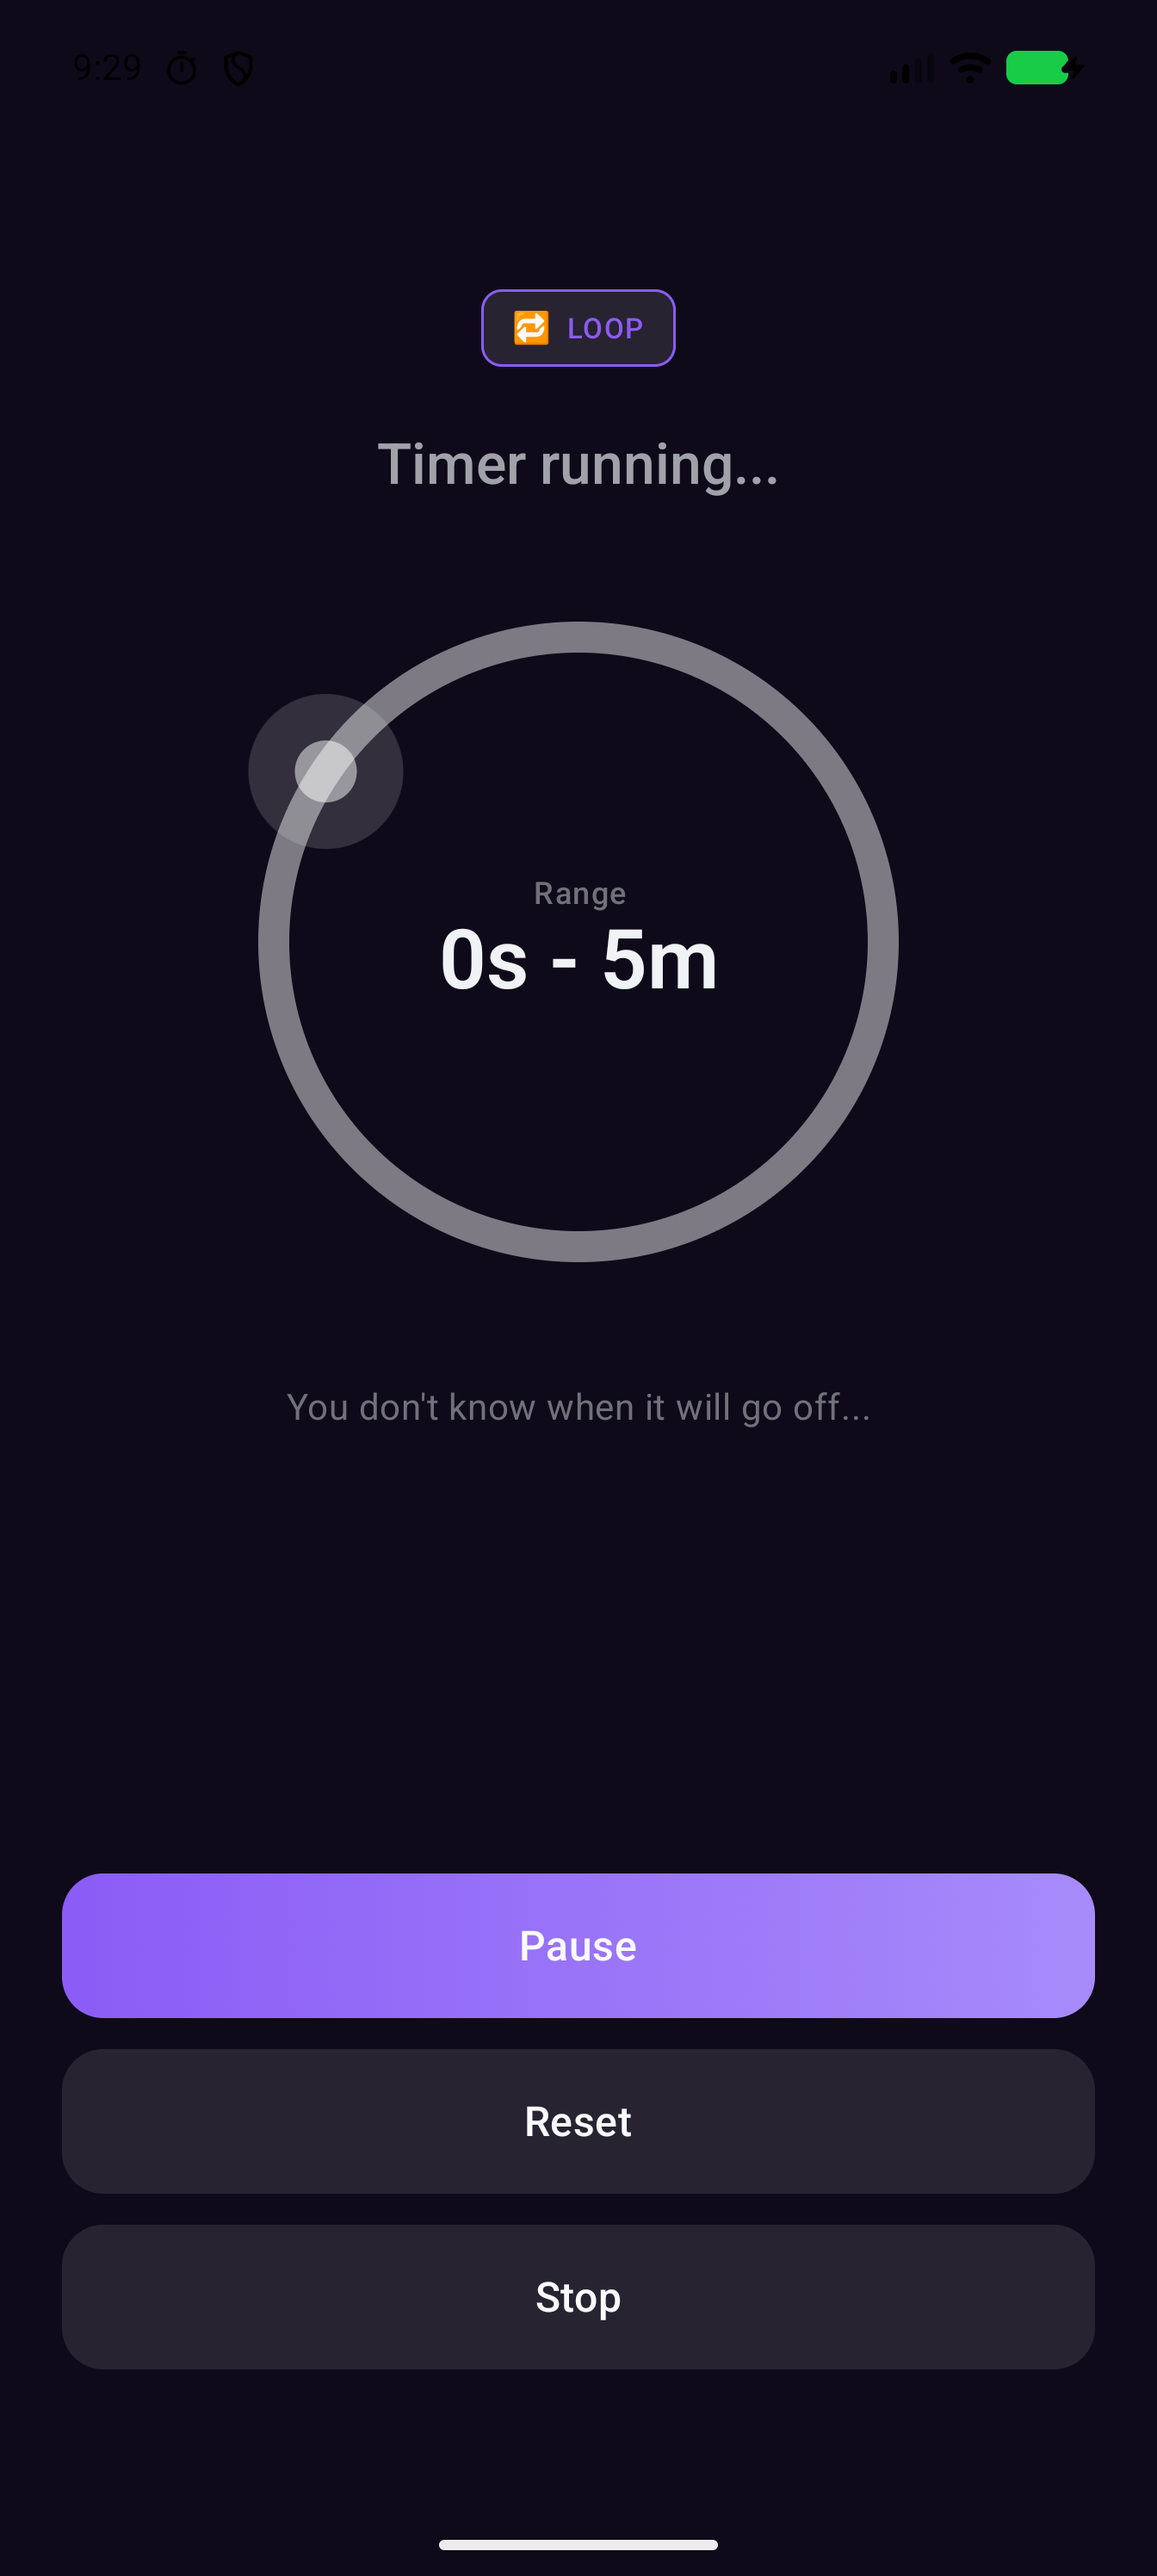
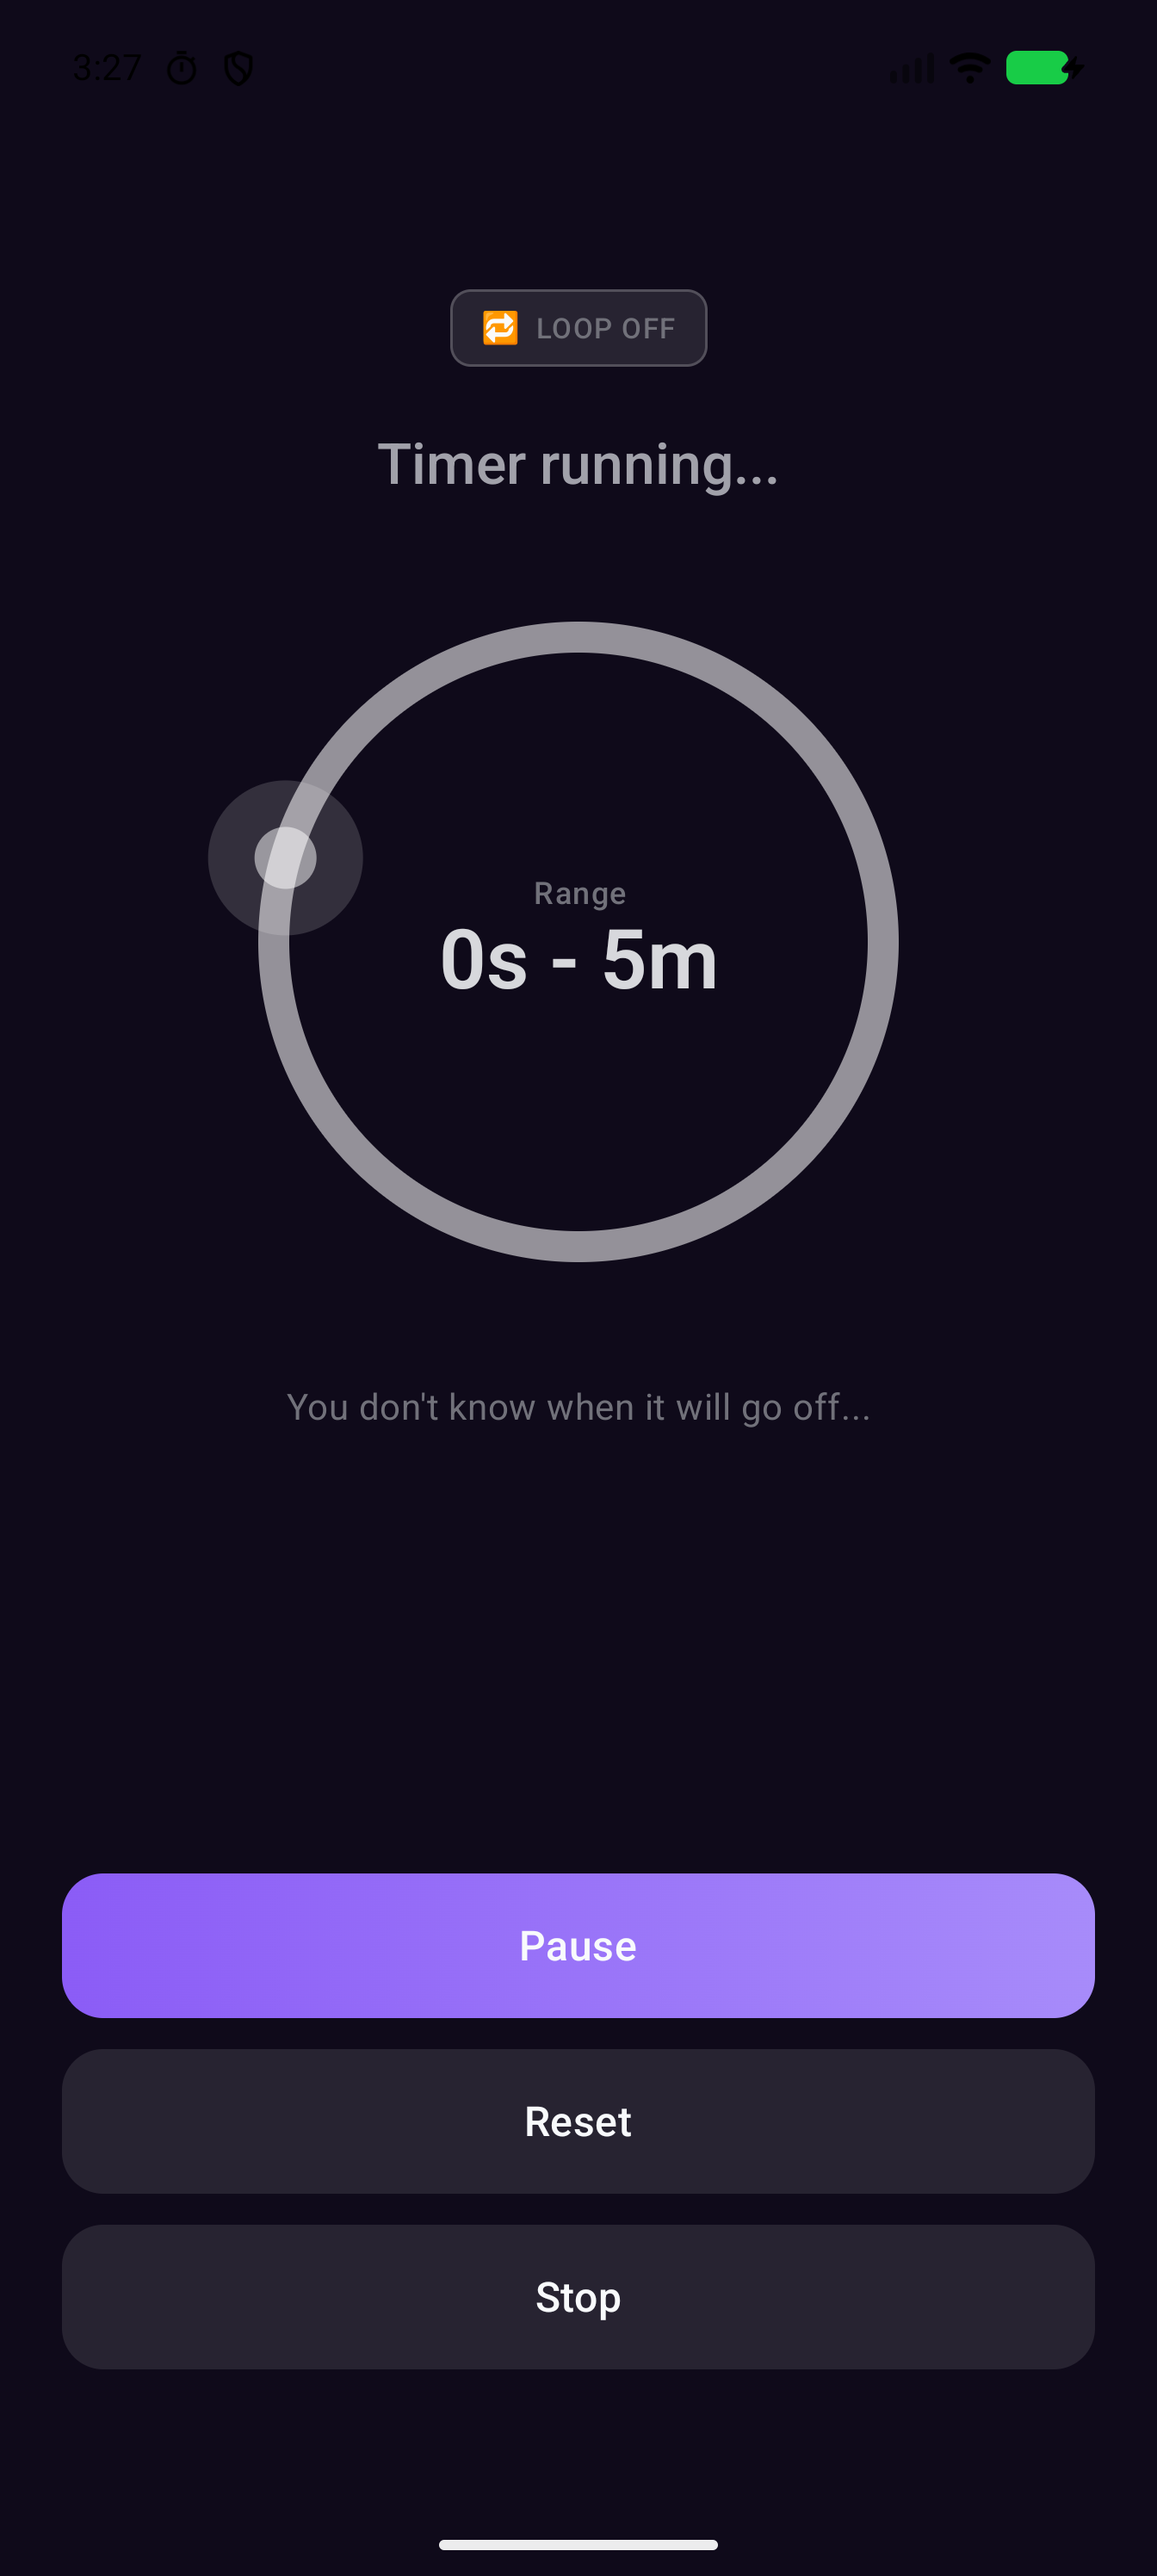
chore: cherry-pick stash keepers — UI fixes, store metadata, screenshots
Android:
- CircularTimer: adaptive text sizing + overflow ellipsis for range text
- Navigation: remove fragile state caching, add popBackStack fallback
- Rewrite Play Store full_description.txt for better conversion

iOS:
- Add itc_team_id to Appfile for fastlane deliver

Screenshots:
- Update android-active, ios-active, ios-setup
- Add android-loop, android-settings, ios-alarm, ios-running

Marketing/Ops:
- Add north_star.json with PostHog WQTU metrics
- Update Daily-Metrics-Dashboard with campaign budget + channel data
- Fix weekly-attribution-feedback workflow permissions

diff --git a/native-android/app/src/main/java/com/iganapolsky/randomtimer/ui/navigation/Navigation.kt b/native-android/app/src/main/java/com/iganapolsky/randomtimer/ui/navigation/Navigation.kt
@@ -9,9 +9,6 @@ import androidx.compose.animation.slideOutVertically
 import androidx.compose.runtime.Composable
 import androidx.compose.runtime.LaunchedEffect
 import androidx.compose.runtime.getValue
-import androidx.compose.runtime.mutableStateOf
-import androidx.compose.runtime.remember
-import androidx.compose.runtime.setValue
 import androidx.compose.ui.platform.LocalContext
 import androidx.hilt.navigation.compose.hiltViewModel
 import androidx.lifecycle.compose.collectAsStateWithLifecycle
@@ -21,7 +18,6 @@ import androidx.navigation.compose.composable
 import androidx.navigation.compose.currentBackStackEntryAsState
 import androidx.navigation.compose.rememberNavController
 import com.iganapolsky.randomtimer.analytics.AnalyticsScreens
-import com.iganapolsky.randomtimer.domain.model.TimerState
 import com.iganapolsky.randomtimer.ui.screens.ActiveTimerScreen
 import com.iganapolsky.randomtimer.ui.screens.TimerSetupScreen
 import com.iganapolsky.randomtimer.ui.viewmodel.TimerViewModel
@@ -56,7 +52,13 @@ fun RandomTimerNavHost(
         } else {
             // Timer stopped - go back to setup screen
             if (currentRoute == Screen.ActiveTimer.route) {
-                navController.popBackStack(Screen.Setup.route, inclusive = false)
+                val popped = navController.popBackStack(Screen.Setup.route, inclusive = false)
+                if (!popped) {
+                    navController.navigate(Screen.Setup.route) {
+                        launchSingleTop = true
+                        popUpTo(Screen.ActiveTimer.route) { inclusive = true }
+                    }
+                }
                 // Prompt for review after timer completion (if eligible)
                 activity?.let { viewModel.storeReviewManager.requestReview(it) }
             }
@@ -105,24 +107,33 @@ fun RandomTimerNavHost(
             LaunchedEffect(Unit) {
                 viewModel.trackScreen(AnalyticsScreens.ACTIVE_TIMER)
             }
-            // Cache last non-null state so the screen doesn't flash black
-            // during the exit animation when timerState becomes null
-            var cachedState by remember { mutableStateOf<TimerState?>(null) }
-            timerState?.let { cachedState = it }
-            val displayState = timerState ?: cachedState
-
-            displayState?.let { state ->
+            val state = timerState
+            if (state == null) {
+                LaunchedEffect(Unit) {
+                    val popped = navController.popBackStack(Screen.Setup.route, inclusive = false)
+                    if (!popped) {
+                        navController.navigate(Screen.Setup.route) {
+                            launchSingleTop = true
+                            popUpTo(Screen.ActiveTimer.route) { inclusive = true }
+                        }
+                    }
+                }
+            } else {
                 ActiveTimerScreen(
                     state = state,
-                    onStop = viewModel::cancelTimer,
-                    onDismissAlarm = viewModel::dismissAlarm,
+                    onStop = {
+                        viewModel.cancelTimer()
+                    },
+                    onDismissAlarm = {
+                        viewModel.dismissAlarm()
+                    },
                     onSilence = viewModel::silenceAlarm,
                     onPause = viewModel::pauseTimer,
                     onResume = viewModel::resumeTimer,
-                    onReset = viewModel::resetTimer,
-                    onLoopToggle = { enabled ->
-                        viewModel.updateLoopSetting(enabled)
+                    onReset = {
+                        viewModel.resetTimer()
                     },
+                    onLoopToggle = viewModel::updateLoopSetting,
                 )
             }
         }

diff --git a/native-android/app/src/main/java/com/iganapolsky/randomtimer/ui/components/CircularTimer.kt b/native-android/app/src/main/java/com/iganapolsky/randomtimer/ui/components/CircularTimer.kt
@@ -12,6 +12,7 @@ import androidx.compose.foundation.layout.Box
 import androidx.compose.foundation.layout.Column
 import androidx.compose.foundation.layout.aspectRatio
 import androidx.compose.foundation.layout.fillMaxSize
+import androidx.compose.foundation.layout.fillMaxWidth
 import androidx.compose.foundation.layout.padding
 import androidx.compose.foundation.layout.size
 import androidx.compose.material3.MaterialTheme
@@ -31,6 +32,7 @@ import androidx.compose.ui.graphics.drawscope.Stroke
 import androidx.compose.ui.semantics.clearAndSetSemantics
 import androidx.compose.ui.semantics.contentDescription
 import androidx.compose.ui.text.style.TextAlign
+import androidx.compose.ui.text.style.TextOverflow
 import androidx.compose.ui.tooling.preview.Preview
 import androidx.compose.ui.unit.Dp
 import androidx.compose.ui.unit.dp
@@ -170,7 +172,7 @@ fun CircularTimer(
         modifier =
             modifier
                 .aspectRatio(1f)
-                .padding(16.dp)
+                .padding(12.dp)
                 .clearAndSetSemantics { contentDescription = accessibilityText },
         contentAlignment = Alignment.Center,
     ) {
@@ -274,39 +276,33 @@ fun CircularTimer(
                 textAlign = TextAlign.Center,
             )
         } else if (rangeText.isNotEmpty()) {
-            // Split "1m 10s - 3m 35s" into two lines so it fits inside the circle
-            val rangeParts = rangeText.split(" - ", limit = 2)
+            val rangeTextStyle =
+                if (rangeText.length >= 14) {
+                    MaterialTheme.typography.titleLarge
+                } else {
+                    MaterialTheme.typography.headlineLarge
+                }
+
             Column(
+                modifier = Modifier.fillMaxWidth(0.82f),
                 horizontalAlignment = Alignment.CenterHorizontally,
             ) {
                 Text(
                     text = "Range",
+                    modifier = Modifier.fillMaxWidth(),
                     style = MaterialTheme.typography.labelMedium,
                     color = if (status == TimerStatus.PAUSED) TimerColors.TextSecondary else TimerColors.TextMuted,
                     textAlign = TextAlign.Center,
                 )
-                if (rangeParts.size == 2) {
-                    Text(
-                        text = rangeParts[0],
-                        style = MaterialTheme.typography.titleLarge,
-                        color = TimerColors.TextPrimary.copy(alpha = pulseAlpha),
-                        textAlign = TextAlign.Center,
-                    )
-                    Text(
-                        text = "to ${rangeParts[1]}",
-                        style = MaterialTheme.typography.titleLarge,
-                        color = TimerColors.TextPrimary.copy(alpha = pulseAlpha),
-                        textAlign = TextAlign.Center,
-                    )
-                } else {
-                    Text(
-                        text = rangeText,
-                        style = MaterialTheme.typography.titleLarge,
-                        color = TimerColors.TextPrimary.copy(alpha = pulseAlpha),
-                        textAlign = TextAlign.Center,
-                        maxLines = 1,
-                    )
-                }
+                Text(
+                    text = rangeText,
+                    modifier = Modifier.fillMaxWidth(),
+                    style = rangeTextStyle,
+                    color = TimerColors.TextPrimary.copy(alpha = pulseAlpha),
+                    textAlign = TextAlign.Center,
+                    maxLines = 1,
+                    overflow = TextOverflow.Ellipsis,
+                )
             }
         } else {
             // Fallback - should not happen for random timer

diff --git a/wiki/Daily-Metrics-Dashboard.md b/wiki/Daily-Metrics-Dashboard.md
@@ -7,14 +7,14 @@
 <!-- DOWNLOADS_START -->
 | Metric | iOS | Android | Combined |
 |--------|:---:|:-------:|:--------:|
-| Downloads (30d) | 5 | — | 5 |
+| Downloads (30d) | 6 | — | 6 |
 | Active Installs | — | — | — |
 
 | Active Users | Count |
 |-------------|:-----:|
-| DAU | 4 |
-| WAU | 5 |
-| MAU | 129 |
+| DAU | 5 |
+| WAU | 6 |
+| MAU | 130 |
 <!-- DOWNLOADS_END -->
 
 ## North Star (WQTU)
@@ -29,8 +29,8 @@
 | Checkpoint Target (2026-03-31) | 8 |
 | Quarter Target (2026-06-30) | 25 |
 | Paid Attributed Users (30d) | 0 |
-| Active Campaign Count | 2 |
-| Guardrail Violated | YES |
+| Active Campaign Count | 0 |
+| Guardrail Violated | NO |
 <!-- NORTH_STAR_END -->
 
 ## Attribution Summary
@@ -38,7 +38,7 @@
 <!-- ATTRIBUTION_START -->
 # Attribution Feedback Report
 
-**Generated:** 2026-02-23T16:28:52+00:00
+**Generated:** 2026-02-23T16:39:18+00:00
 
 ## Onboarding Funnel
 - First Open: **130**
@@ -91,15 +91,16 @@
 <!-- CAMPAIGNS_START -->
 | Platform | Daily Budget | Status | Keywords |
 |----------|:-----------:|--------|:--------:|
-| apple_search_ads | $6.00 | draft | 37 |
-| google_uac | $4.00 | draft | 10 |
-| **Total** | **$10.00** | — | 47 |
+| apple_search_ads | $10.00 | draft | 37 |
+| google_uac | $10.00 | draft | 10 |
+| reddit_ads | $10.00 | ready_to_launch | 0 |
+| **Total** | **$30.00** | — | 47 |
 <!-- CAMPAIGNS_END -->
 
 ## ASO Keywords
 
 <!-- ASO_START -->
-**iOS (current):** `boxing,bjj,mma,combat,drills,sparring,interval,coach,hiit,crossfit,rounds,fighter,workout,tabata`
+**iOS (current):** `boxing,bjj,mma,combatives,drills,sparring,interval,coach,crossfit,rounds,fighter,workout,tabata`
 
 **Last rotation:** —
 **Performing:** — | **Replaced:** —
@@ -130,16 +131,26 @@
 <!-- CHARTS_START -->
 ```mermaid
 xychart-beta
-    title "WQTU (7d)"
+    title "Downloads (30d rolling)"
     x-axis ["2026-02-23" , "2026-02-23" , "2026-02-23"]
-    y-axis "Users"
+    y-axis "Downloads"
+    line [6 , 6 , 6]
     line [0 , 0 , 0]
 ```
 
 ```mermaid
+xychart-beta
+    title "WQTU (7d)"
+    x-axis ["2026-02-23" , "2026-02-23" , "2026-02-23" , "2026-02-23"]
+    y-axis "Users"
+    line [0 , 0 , 0 , 0]
+```
+
+```mermaid
 pie title Daily Ad Budget Allocation ($)
-    "Apple Search Ads" : 6.0
-    "Google Uac" : 4.0
+    "Apple Search Ads" : 10.0
+    "Google Uac" : 10.0
+    "Reddit Ads" : 10.0
 ```
 
 ```mermaid
